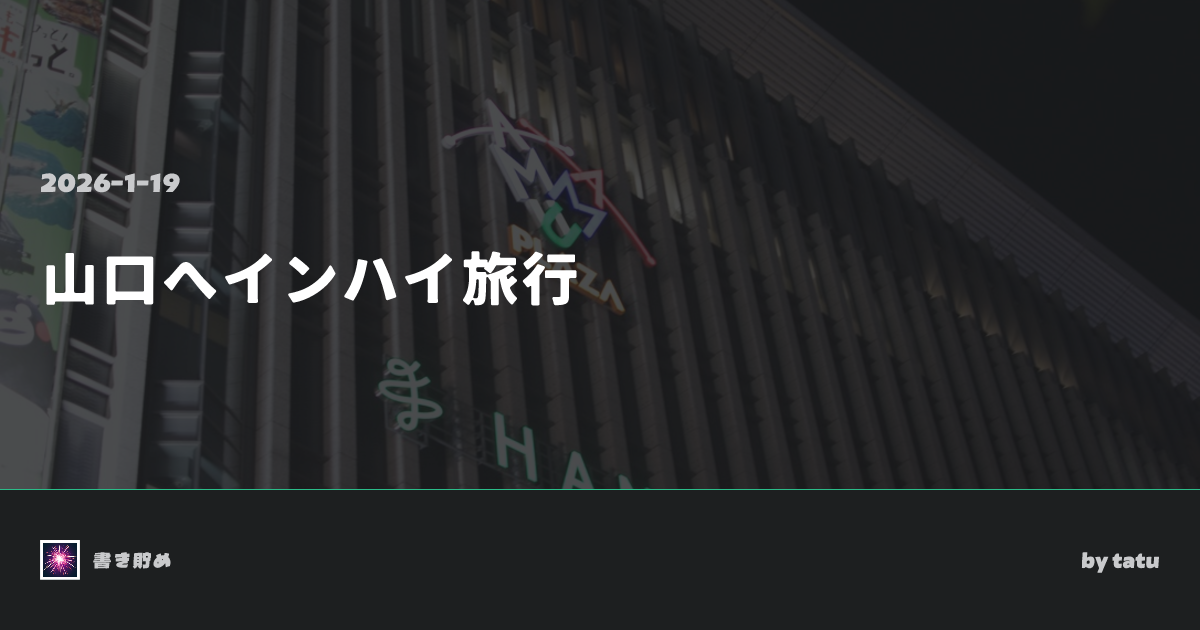
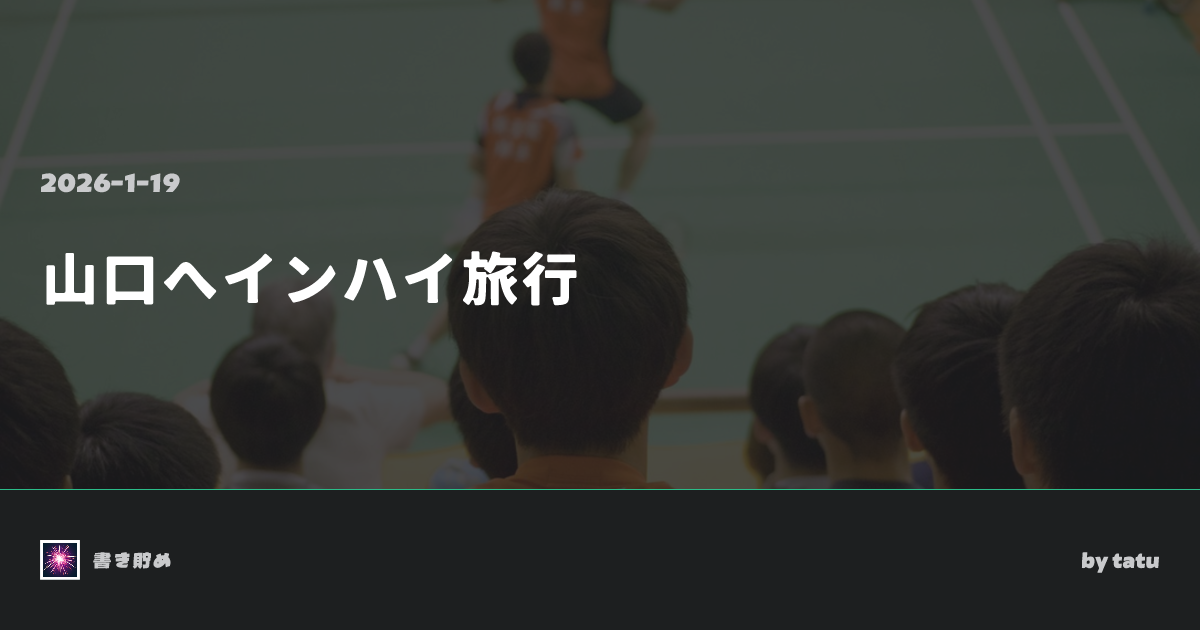
feat: webmentionの最適化と、記事

diff --git a/src/content.config.ts b/src/content.config.ts
@@ -19,7 +19,7 @@ const post = defineCollection({
 			coverImage: z
 				.object({
 					alt: z.string(),
-					src: z.union([image(), z.string().url()]),
+					src: z.union([z.string().url(), image()]),
 				})
 				.optional(),
 			draft: z.boolean().default(false),

diff --git a/src/content/post/badminton/ih-2026-yosou.md b/src/content/post/badminton/ih-2026-yosou.md
@@ -1,0 +1,117 @@
+---
+title: "インハイ2026団体予想"
+description: "優勝予想"
+publishDate: "21 Jan 2026"
+tags: ["バドミントン"]
+---
+
+
+今年の長く暑い夏が始まりました
+
+男子団体2回戦が始まったところです
+
+(男子1回戦 松徳学院vs秋田工業、男子団体2回戦 八代東vs長野商業の試合を見ながら執筆しています)
+
+おことわり: 県大会ベスト16レベルのバドミントン大好き大学生の戯言です。アンチやめてね。
+
+**ベスト4予想**, **注目の試合、選手** を個人団体それぞれで書いていきます
+
+# 男子団体ベスト4予想
+## 優勝 埼玉栄
+言わずもがな
+シングルは**高野**、ダブルは**澤田・石井**が絶対に取るという安心感。
+
+それに加え、2ダブも豪華
+
+選抜でも2ダブを任されていた山崎・五十田(2年生)、2023全中MD優勝で今年埼玉県予選2位の松本・荻原(1年生)(U18)
+
+2シンは選抜8強の石井を出すか、もしくは体力温存のためにタレント揃いの新一年生(2024全中優勝の砂川、2023全中3位の山口)を起用するかも
+
+ここで澤田来たら激アツだけどな
+
+圧倒的優勝候補です
+
+## 準優勝 ふたば未来
+選抜MD準優勝の**山城・川野**、2023全中MD優勝の**増田・宮下**が揃っている
+
+シングルはダブルスと兼ねて川野選手、山城選手が出場すると思いますが、埼玉栄に比べてタレント不足感が否めない。
+複数種目を兼ねることは前提条件になるので、体力的にもシングル専門の高野選手に分があり、決勝に行く頃には体力的にキツそう
+
+それに加え、エース川野のシングルで一本取れるとは限らない
+ランサーやアジアジュニアの活躍で超高校級に結果を出しているが、高校のシングルの成績でみると2024選抜MS準優勝から全国で入賞はなく、JOC、選抜のベスト8が続いている
+
+絶対的な安心感を感じきれず、単複出場における体力面から栄には勝てないと思った
+
+## 3位 柏原、勝山
+柏原はすんなりいくでしょう
+
+西尾しかわかんないけど、苦戦を強いられず勝ち進めると思う
+準決の栄はダブルス陣で持ってかれるなぁ
+
+もう1つの山は勝山と予想
+
+第4シードの青森山田を倒すと思う
+今年の選抜3位の山田だが、その準々決勝で高岡第一に2-3の接戦で勝利
+
+勝山は、その高岡第一に対し北信越総体の決勝3-2で勝利している！(しかも、2024全中MS準優勝の新一年生奥を起用し、選抜より強くなった高岡第一に勝利！)
+
+推移律な予想だが、かなりの接戦で勝山が青森山田を下して3位に入賞するのではないかと予想する
+
+## 注目の試合、高校
+まず間違いなく盛り上がるのが、トーナメント右下男子団体3回戦**瓊浦vs埼玉栄**
+
+* JOC MD優勝、選抜MD3位、U18の**根本・吉次**
+
+* 2024 MS準優勝 MD3位、JOC MS3位、選抜MS, MD3位 U18の**草ノ瀬**
+
+がいるのに栄と当たるのが早すぎる…
+正直、山田か柏原の山に入れば3位入れた…
+
+選抜の3回戦と同じカードだが、そのときは栄が3-0で勝利
+
+根本吉次負けたのが痛い
+ダブルを1つ取れれば、草ノ瀬でシングル取って3シン勝負できるかもしれない
+
+これで栄まくったらまじで面白くなってくる！
+
+あとは前述の通り、**勝山vs青森山田**や、
+
+* 開催地枠の**野田学園**
+* 初出場**鹿実**
+* 新しい岡山の顔**倉敷翠松**
+なども気になるところ
+
+# 女子団体ベスト4予想
+## 優勝 柳井商工
+山口開催の勢いで10連覇してくれると予想
+
+シングル陣: 2024選抜準優勝 **白川**、JOC準優勝、アジアジュニアベスト8**松本**、2024全中3位(2023は優勝)**阿波**
+
+ダブル陣: 選抜準優勝**大津・中原**、U18**橋村**
+
+揃ってるな〜
+4決めの山田戦がほんとにきつそう
+
+## 準優勝 ふたば未来
+
+シングル陣: 選抜3位**大石**、2024全中1位**芳賀**
+ダブル陣: 中3でJOC1位**上野・伴野**、選抜3位**畠山・山北**
+
+柳井並に揃っているが、上記選手はすべて1,2年生。3年生を多く揃える柳井に対し、経験で勝てないのではと予想
+## 3位 栄、佐賀女子
+順当に行くんじゃないかな〜と
+
+
+## 注目の試合、高校
+前述の通り、4決めの**柳井vs青森山田**
+これはやばい
+
+シングル陣がかなり強い青森山田(選抜決勝で同校対決)に苦戦を強いられそう
+
+山田の視点に立って考えると、**大津・中原**の1ダブは多分取れない。
+どうにか2ダブを取ることができれば、シングルの実力はほぼ互角なのでチャンスが見えてくる！！
+
+団体は何が起こるかわからないからな〜
+男子で言う**瓊浦vs 栄**同様、まくったらまじで面白くなってくるな〜
+
+今回は初出場の高校が多いので、気になるのはそれくらい
